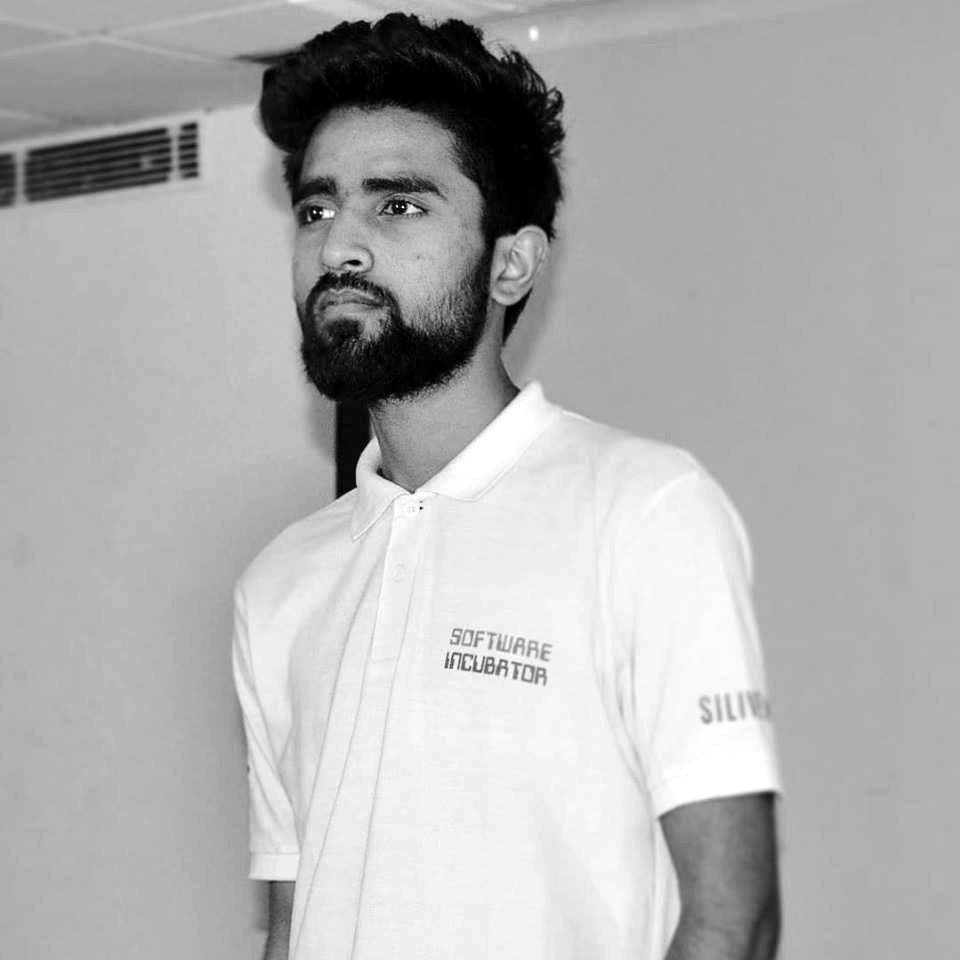
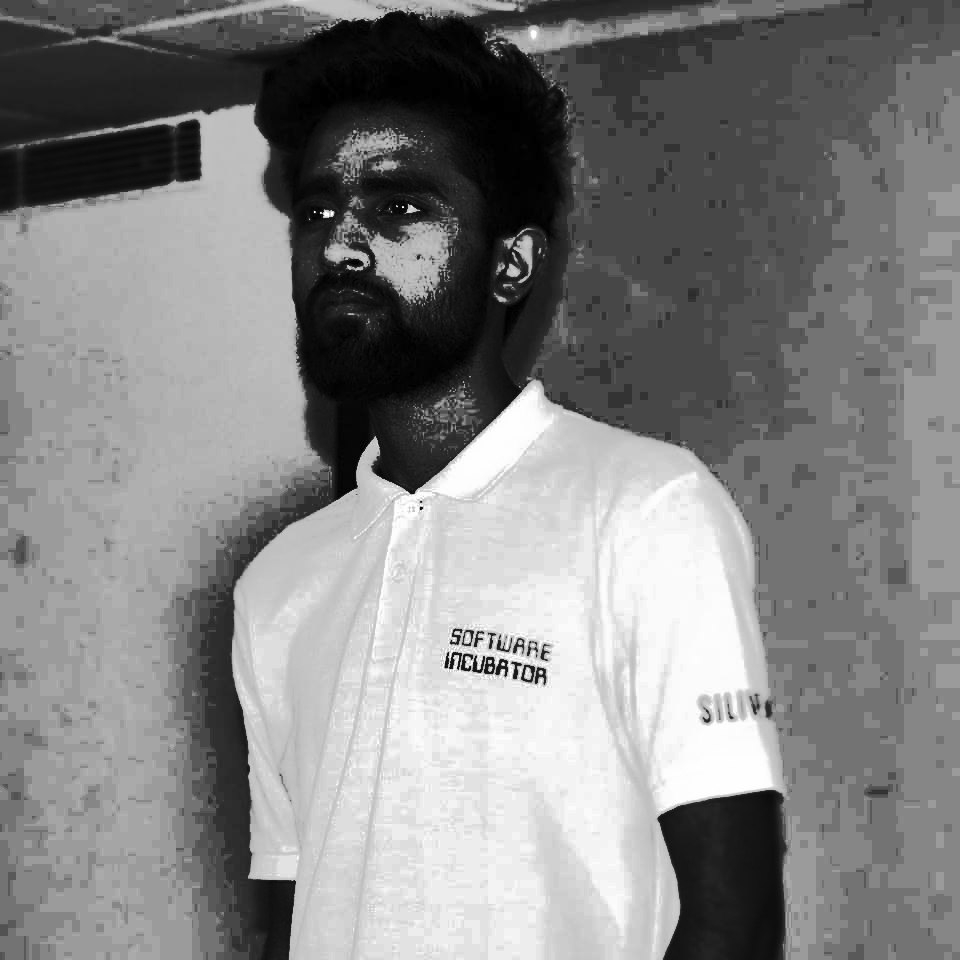
Qualitative Analysis

diff --git a/BHEMHB.py b/BHEMHB.py
@@ -1,0 +1,45 @@
+import numpy as np
+import cv2
+import math
+
+from Histogram import histogram as h
+
+img = cv2.imread('Low_Contrast.jpg', cv2.IMREAD_GRAYSCALE)
+height = img.shape[0]
+width = img.shape[1]
+pixels = width*height
+hist = h(img)
+
+Exposure = 0
+for i in range(0, 256):
+    Exposure += ((hist[i]/pixels)*i)
+Exposure /= 255
+
+tou = int(256*(1-Exposure))
+
+n_low = 0
+for i in range(0, tou):
+    n_low += hist[i]
+n_up = 0
+for i in range(tou, 256):
+    n_up += hist[i]
+
+CHE = np.zeros(256)
+CHE[0] = math.log((hist[0]/n_low) + 1)*255
+for i in range(1, tou):
+    CHE[i] = CHE[i-1] + ((math.log((hist[i]/n_low) + 1))*255)
+for i in range(tou, 256):
+    CHE[i] = CHE[i-1] + ((math.log((hist[i]/n_up) + 1))*255)
+
+for i in np.arange(height):
+    for j in np.arange(width):
+        a = img.item(i, j)
+        b = math.floor(CHE[a])
+        img.itemset((i, j), b)
+
+cv2.imwrite('Better_Modified_Contrast.jpg', img)
+
+cv2.imshow('image', img)
+cv2.waitKey(0)
+cv2.destroyAllWindows()
+

diff --git a/HistogramEqualization.py b/HistogramEqualization.py
@@ -1,5 +1,6 @@
 import numpy as np
 import cv2
+import math
 
 from Histogram import histogram as h
 from CumulativeHistogram import cumulative_histogram as ch
@@ -13,30 +14,10 @@ pixels = width*height
 hist = h(img)
 cum_hist = ch(hist)
 
-p = 0.005
-
-a_low = 0
-for i in np.arange(256):
-    if cum_hist[i] >= pixels*p:
-        a_low = i
-        break
-
-a_high = 255
-for i in np.arange(255, -1, -1):
-    if cum_hist[i] <= pixels*(1-p):
-        a_high = i
-        break
-
 for i in np.arange(height):
     for j in np.arange(width):
         a = img.item(i, j)
-        b = 0
-        if a <= a_low:
-            b = 0
-        elif a >= a_high:
-            b = 255
-        else:
-            b = float(a - a_low) / (a_high - a_low) * 255
+        b = math.floor(cum_hist[a]*255 / pixels)
         img.itemset((i, j), b)
 
 cv2.imwrite('Modified_Contrast.jpg', img)
